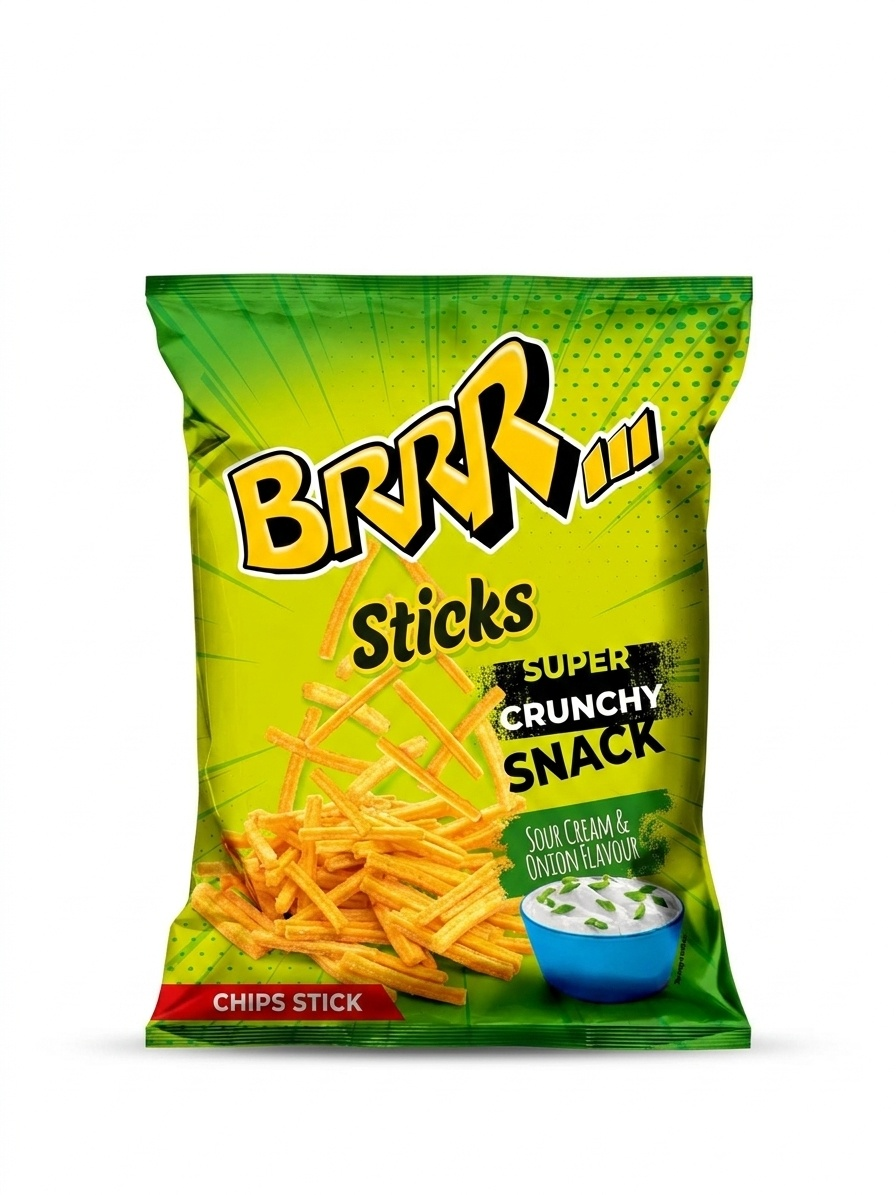
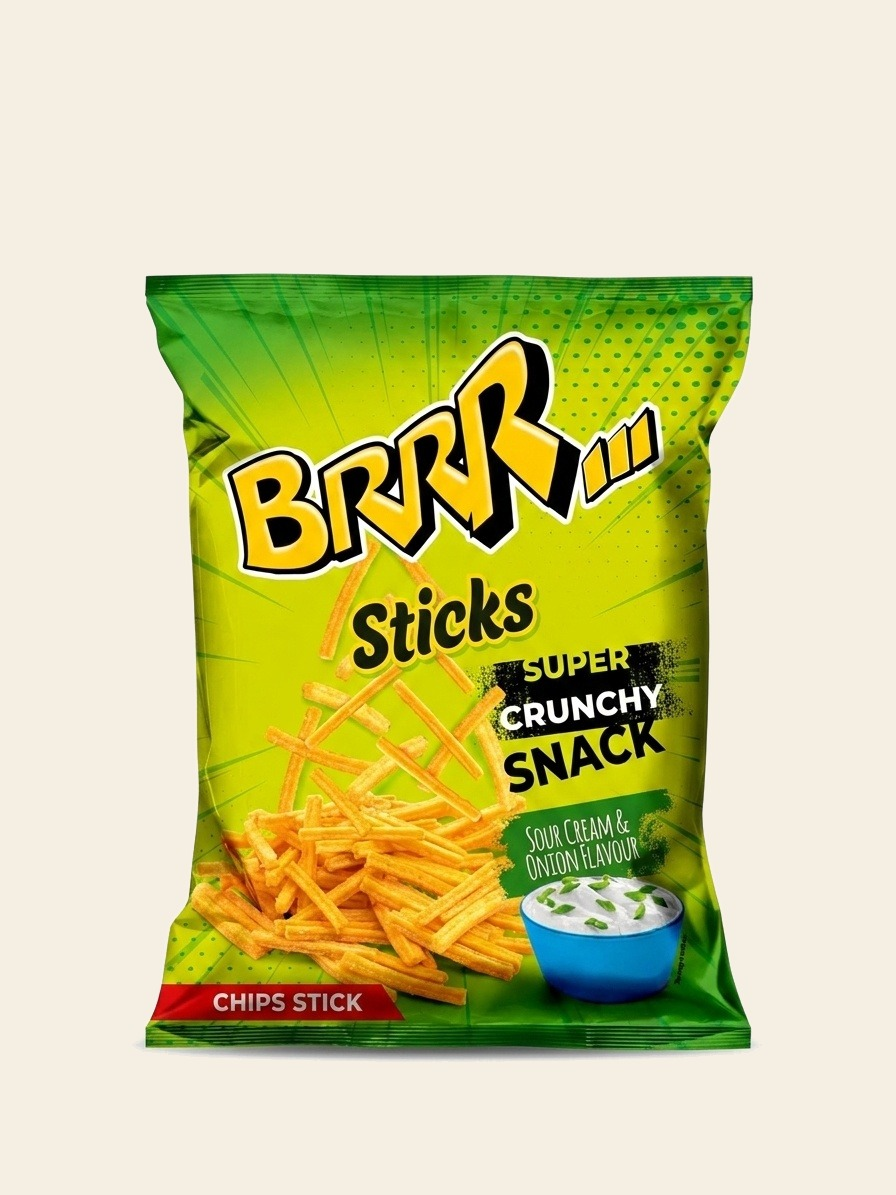
Fix BRRR product image backgrounds to match site cream background
Background removal had baked transparency in as white (JPEG has no
alpha), showing a white box behind each product on the cream page
background. Replaced background with the site cream color instead,
and rotated the wafer roll images to landscape so they lie flat.

diff --git a/scripts/rebg_brrr.py b/scripts/rebg_brrr.py
@@ -1,0 +1,78 @@
+import sys
+from pathlib import Path
+import numpy as np
+from PIL import Image
+from collections import deque
+
+CREAM = (0xF5, 0xEF, 0xE3)
+IMG_DIR = Path(__file__).resolve().parent.parent / "public" / "img" / "products"
+
+def is_bgish(px):
+    r, g, b = int(px[0]), int(px[1]), int(px[2])
+    mx, mn = max(r, g, b), min(r, g, b)
+    return mn > 195 and (mx - mn) < 18
+
+def flood_mask(arr):
+    h, w = arr.shape[:2]
+    mask = np.zeros((h, w), dtype=bool)
+    visited = np.zeros((h, w), dtype=bool)
+    q = deque()
+    border_pts = []
+    for x in range(w):
+        border_pts.append((0, x))
+        border_pts.append((h - 1, x))
+    for y in range(h):
+        border_pts.append((y, 0))
+        border_pts.append((y, w - 1))
+    for (y, x) in border_pts:
+        if not visited[y, x] and is_bgish(arr[y, x]):
+            visited[y, x] = True
+            q.append((y, x))
+    while q:
+        y, x = q.popleft()
+        mask[y, x] = True
+        for dy, dx in ((1,0),(-1,0),(0,1),(0,-1)):
+            ny, nx = y + dy, x + dx
+            if 0 <= ny < h and 0 <= nx < w and not visited[ny, nx]:
+                visited[ny, nx] = True
+                if is_bgish(arr[ny, nx]):
+                    q.append((ny, nx))
+    return mask
+
+def process(path: Path):
+    img = Image.open(path).convert("RGB")
+    arr = np.array(img)
+    mask = flood_mask(arr)
+
+    # feather: for pixels adjacent to masked region that are near-white, blend toward cream
+    from scipy.ndimage import binary_dilation
+    dilated = binary_dilation(mask, iterations=3)
+    edge_zone = dilated & ~mask
+
+    out = arr.copy().astype(np.float32)
+    cream_arr = np.array(CREAM, dtype=np.float32)
+
+    out[mask] = cream_arr
+
+    # feather edge zone based on whiteness
+    ez_pixels = arr[edge_zone].astype(np.float32)
+    brightness = ez_pixels.mean(axis=1) / 255.0
+    whiteness = np.clip((brightness - 0.75) / 0.25, 0, 1)
+    blended = ez_pixels * (1 - whiteness[:, None]) + cream_arr[None, :] * whiteness[:, None]
+    out[edge_zone] = blended
+
+    out_img = Image.fromarray(out.astype(np.uint8), "RGB")
+    out_path = path.with_suffix(".jpg") if path.suffix.lower() != ".jpg" else path
+    out_img.save(out_path, "JPEG", quality=92)
+    if out_path != path:
+        path.unlink()
+    print(f"done: {path.name} -> {out_path.name}")
+
+if __name__ == "__main__":
+    targets = sys.argv[1:]
+    if targets:
+        files = [IMG_DIR / t for t in targets]
+    else:
+        files = sorted(IMG_DIR.glob("brrr-*"))
+    for f in files:
+        process(f)
